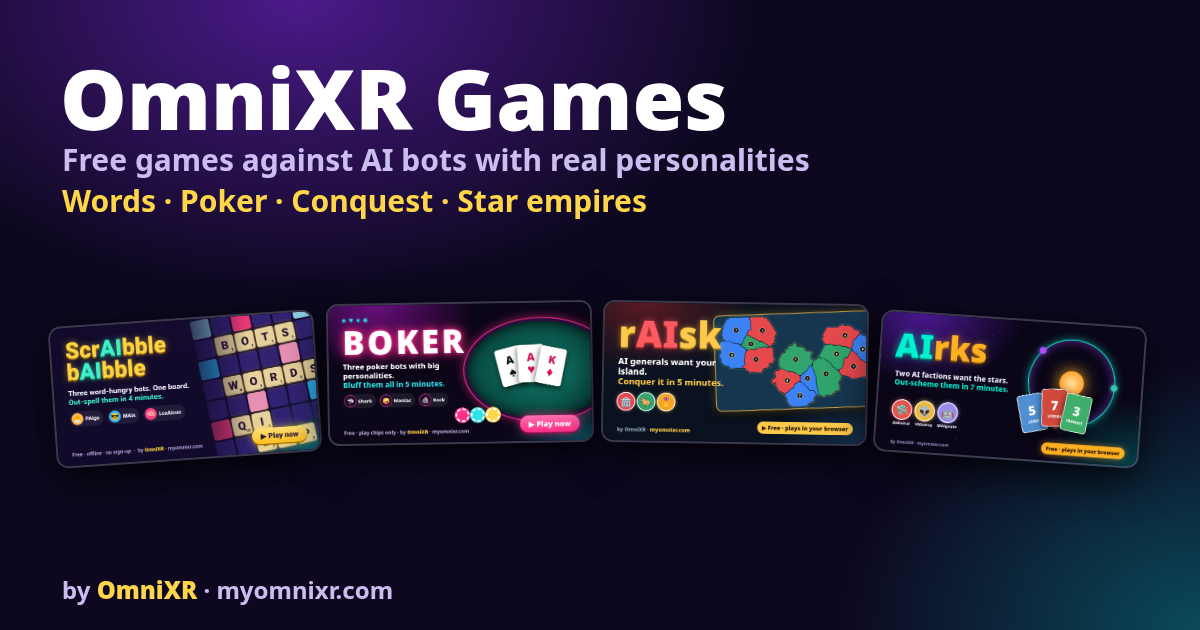
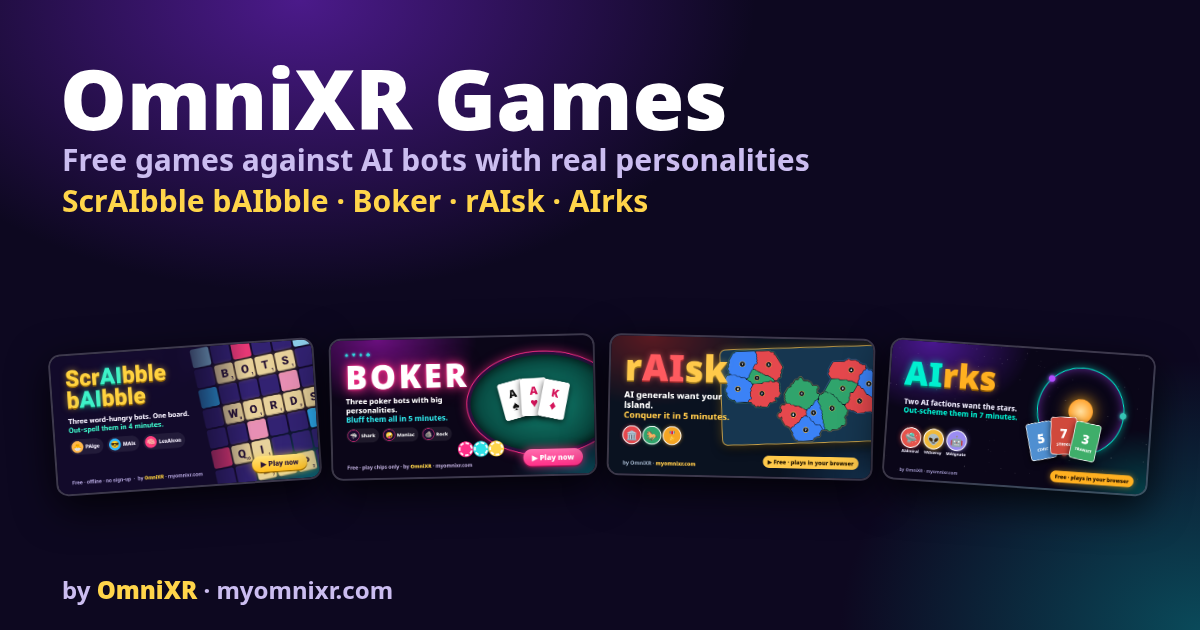
Hub lists every game folder (ScrAIbble bAIbble, Boker, rAIsk, AIrks) with cover, pitch and Play link; hub cover and OG tags show all four

Changed region(s): [[0.0308, 0.4524, 0.9558, 0.7841], [0.0308, 0.3016, 0.555, 0.3619]]

diff --git a/index.html b/index.html
@@ -1,18 +1,19 @@
 <!doctype html><html lang="en"><head><meta charset="utf-8"><meta name="viewport" content="width=device-width,initial-scale=1">
 <title>OmniXR Games: play against AI bots</title>
-<meta name="description" content="Free browser games against AI bots with real personalities. No sign-up.">
+<meta name="description" content="Free browser games against AI bots with real personalities: ScrAIbble bAIbble, Boker, rAIsk and AIrks. No sign-up.">
 <meta property="og:type" content="website"><meta property="og:title" content="OmniXR Games: play against AI bots">
-<meta property="og:description" content="Free browser games against AI bots with real personalities. No sign-up.">
-<meta property="og:url" content="https://yougitadmin.github.io/omnixr-games/"><meta property="og:image" content="https://yougitadmin.github.io/omnixr-games/cover.png"><meta name="twitter:card" content="summary_large_image">
+<meta property="og:description" content="Free browser games against AI bots with real personalities: ScrAIbble bAIbble, Boker, rAIsk and AIrks. No sign-up.">
+<meta property="og:url" content="https://yougitadmin.github.io/omnixr-games/"><meta property="og:image" content="https://yougitadmin.github.io/omnixr-games/cover.png"><meta property="og:image:width" content="1200"><meta property="og:image:height" content="630"><meta property="og:image:alt" content="OmniXR Games: ScrAIbble bAIbble, Boker, rAIsk, AIrks"><meta name="twitter:card" content="summary_large_image"><meta name="twitter:title" content="OmniXR Games: play against AI bots"><meta name="twitter:description" content="Free browser games against AI bots with real personalities: ScrAIbble bAIbble, Boker, rAIsk and AIrks. No sign-up."><meta name="twitter:image" content="https://yougitadmin.github.io/omnixr-games/cover.png">
 <style>
 body{margin:0;min-height:100vh;font-family:system-ui,"Segoe UI",Roboto,Arial,sans-serif;color:#fff;background:radial-gradient(800px 500px at 30% 0%,#4b1a8a 0%,transparent 65%),radial-gradient(700px 500px at 100% 100%,#0a4a5a 0%,transparent 60%),#0d0820}
 .w{max-width:900px;margin:0 auto;padding:32px 16px;text-align:center}h1{font-size:clamp(34px,8vw,56px);margin:0 0 8px}p{color:#cbbdf0;font-size:18px;margin:0 0 26px}
 .g{display:grid;grid-template-columns:repeat(auto-fit,minmax(min(100%,340px),1fr));gap:18px}a.c{display:block;text-decoration:none;color:#fff;background:#ffffff0f;border:2px solid #ffffff1f;border-radius:18px;overflow:hidden;transition:transform .15s}
-a.c:hover{transform:translateY(-4px)}a.c img{width:100%;display:block}a.c div{padding:12px 14px;font-weight:800;font-size:20px;text-align:left}a.c span{display:block;font-weight:500;font-size:15px;color:#cbbdf0;margin-top:4px}
+a.c:hover{transform:translateY(-4px)}a.c img{width:100%;display:block}a.c div{padding:12px 14px;font-weight:800;font-size:20px;text-align:left}a.c span{display:block;font-weight:500;font-size:15px;color:#cbbdf0;margin-top:4px}a.c b{display:inline-block;margin-top:10px;background:#ffd54a;color:#2a1600;border-radius:999px;padding:6px 16px;font-size:15px}
 footer{margin-top:28px;color:#cbbdf0}footer a{color:#ffd54a;text-decoration:none}</style></head><body><div class="w">
 <h1>OmniXR Games</h1><p>Free games against AI bots with real personalities. Play in your browser, no sign-up.</p>
-<div class="g"><a class="c" href="scraibble-baibble/"><img src="scraibble-baibble/cover.png" alt="ScrAIbble bAIbble"><div>ScrAIbble bAIbble<span>Out-spell three word bots in 4 minutes.</span></div></a>
-<a class="c" href="boker/"><img src="boker/cover.png" alt="Boker"><div>Boker<span>Bluff three poker bots. Play chips only.</span></div></a>
-<a class="c" href="raisk/"><img src="raisk/cover.png" alt="rAIsk"><div>rAIsk<span>Conquer a small island before the AI generals do.</span></div></a>
-<a class="c" href="airks/"><img src="airks/cover.png" alt="AIrks"><div>AIrks<span>Out-scheme two AI factions for the stars in 7 minutes.</span></div></a></div>
+<div class="g">
+<a class="c" href="scraibble-baibble/"><img src="scraibble-baibble/cover.png" alt="ScrAIbble bAIbble"><div>ScrAIbble bAIbble<span>Out-spell three AI bots in a 4-minute word duel.</span><b>▶ Play</b></div></a>
+<a class="c" href="boker/"><img src="boker/cover.png" alt="Boker"><div>Boker<span>Bluff three poker bots with real personalities and voices.</span><b>▶ Play</b></div></a>
+<a class="c" href="raisk/"><img src="raisk/cover.png" alt="rAIsk"><div>rAIsk<span>Conquer a small island against AI generals in 5 minutes.</span><b>▶ Play</b></div></a>
+<a class="c" href="airks/"><img src="airks/cover.png" alt="AIrks"><div>AIrks<span>Out-scheme two AI factions for six star clusters in about 7 minutes.</span><b>▶ Play</b></div></a></div>
 <footer>by OmniXR · <a href="https://myomnixr.com">myomnixr.com</a></footer></div></body></html>
